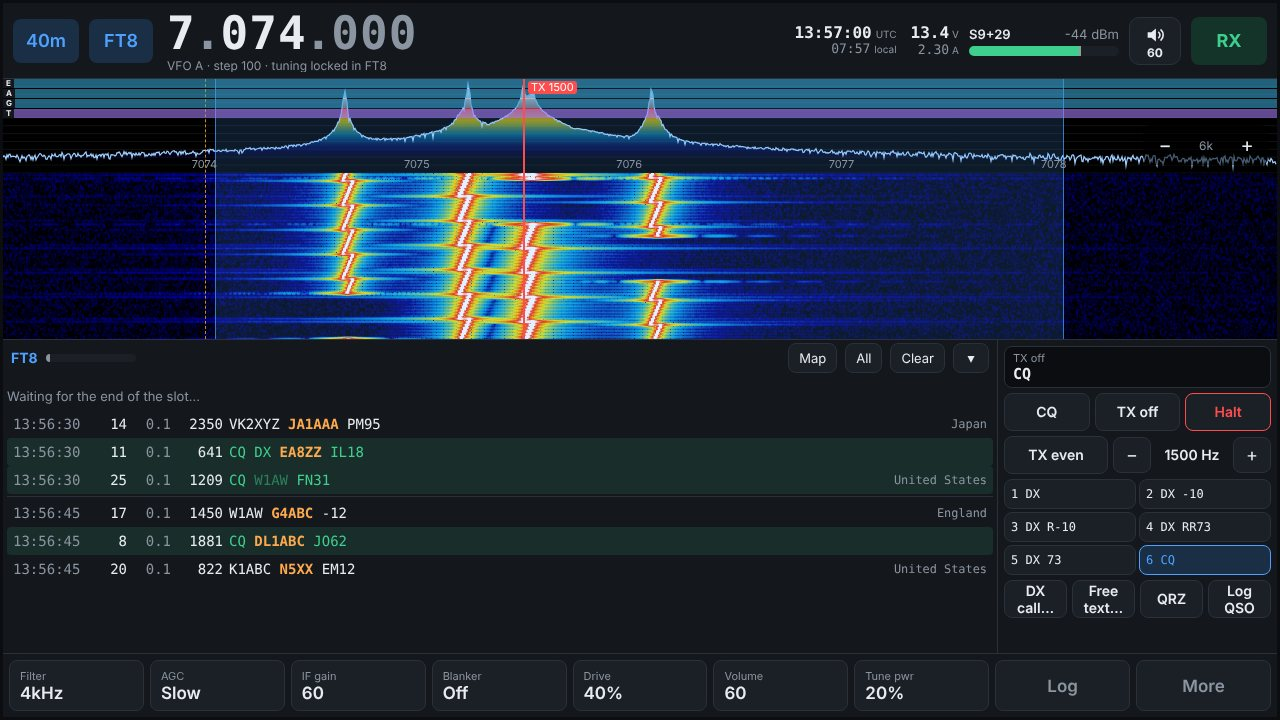
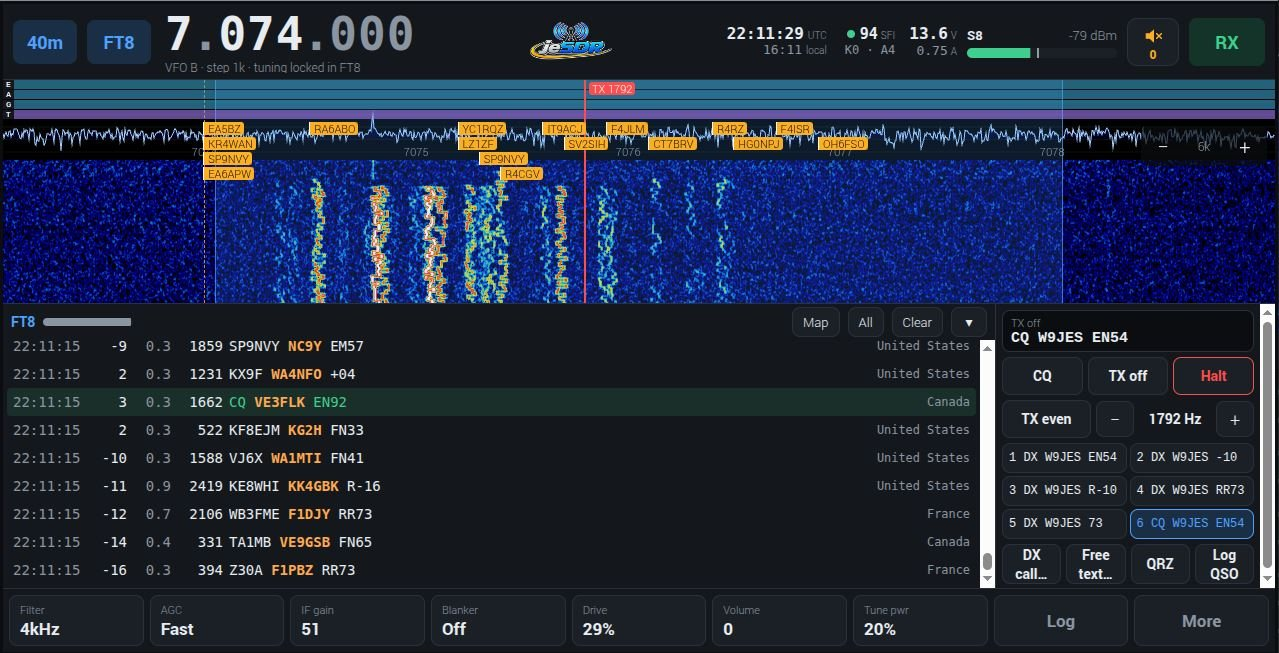
manual images

diff --git a/index.html b/index.html
@@ -86,16 +86,16 @@
         <figcaption><b>A real band.</b> 40 m phone, received by jeSDR: 24 kHz of spectrum and waterfall, the passband you hear shaded, and a tap on a signal tunes to it.</figcaption>
       </figure>
       <figure>
-        <img src="assets/screen-ft8.jpg" alt="jeSDR in FT8 mode: spectrum and waterfall at the top, decoded FT8 messages below with country names, and the TX controls on the right" width="1280" height="720" loading="lazy">
+        <img src="assets/screen-ft8.jpg" alt="jeSDR in FT8 mode on 40 metres: spectrum and waterfall full of FT8 signals at the top, decoded messages below with country names, and the TX controls on the right" width="1279" height="653" loading="lazy">
         <figcaption><b>FT8 in the radio.</b> Decodes with countries and worked-before colors, tap a caller to answer, drag the red TX marker to move your transmit frequency.</figcaption>
       </figure>
       <figure>
-        <img src="assets/screen-cw-outdoor.jpg" alt="jeSDR in CW mode with the Outdoor (POTA) theme: white background, bold black text, the CW decoder and macro buttons" width="1280" height="720" loading="lazy">
-        <figcaption><b>Outdoor (POTA) theme.</b> High contrast for sunlight, with the CW decoder, the zero-beat bar and one-tap macros.</figcaption>
+        <img src="assets/screen-cw.jpg" alt="jeSDR in CW mode on 40 metres: DX cluster spots labelled across the scope, CW signals in the waterfall, and the CW decoder with the zero-beat bar below" width="1274" height="538" loading="lazy">
+        <figcaption><b>CW on a real band.</b> DX cluster spots right on the scope (tap one to tune to it), the CW decoder, and a zero-beat bar that shows when you're on the other station's frequency.</figcaption>
       </figure>
       <figure class="wide">
         <img src="assets/screen-themes.jpg" alt="Six jeSDR themes on the same 40 m band: Outdoor (POTA), Night (red), Icom style, Elecraft style, Heathkit style and Yaesu style" width="1220" height="490" loading="lazy">
-        <figcaption><b>Twelve themes,</b> from Night (red) for the dark to Icom, Yaesu, Kenwood, Elecraft and Heathkit styles.</figcaption>
+        <figcaption><b>Twelve themes,</b> from Outdoor (POTA) for sunlight and Night (red) for the dark to Icom, Yaesu, Kenwood, Elecraft and Heathkit styles.</figcaption>
       </figure>
     </div>
   </div>
